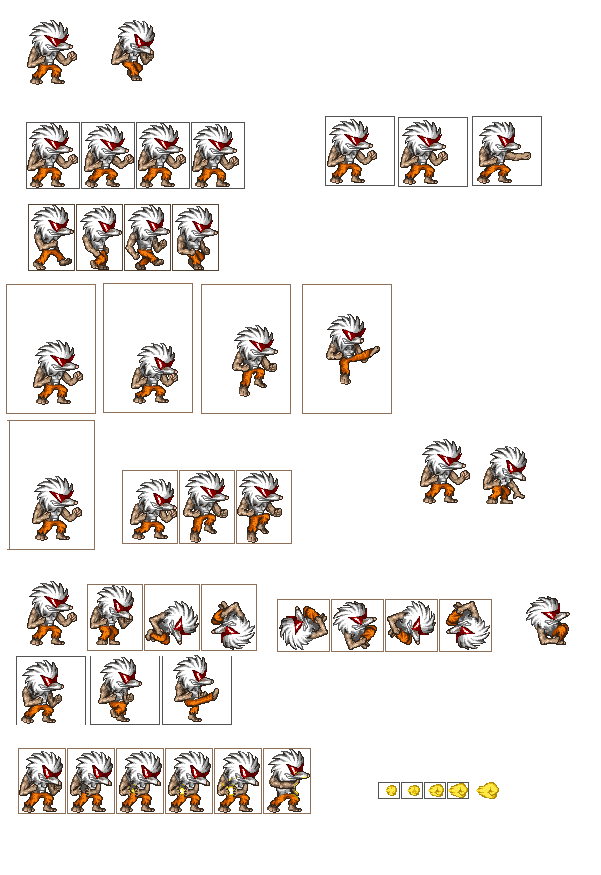
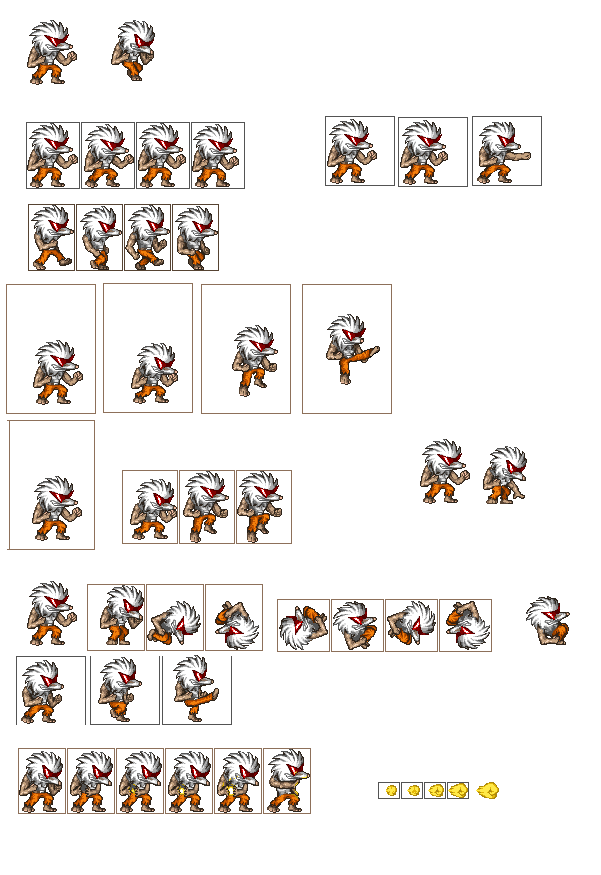
Added the rest of the possum loads, fixed a small thing in frames.

Changed region(s): [[0.1498, 0.648, 0.4493, 0.7406]]

diff --git a/hexoshi.py b/hexoshi.py
@@ -6816,7 +6816,18 @@ awesomepossum_stand_sprite = sge.gfx.Sprite.from_tileset(
     fps=10)
 awesomepossum_walk_sprite = sge.gfx.Sprite.from_tileset(
     fname, 29, 205, 4, xsep=3, width=45, height=65, origin_x=22, origin_y=64)
-    
+awesomepossum_roll_start_sprite = sge.gfx.Sprite.from_tileset(
+    fname, 88, 585, 3, xsep=3, width=56, height=65, origin_x=29, origin_y=59)
+awesomepossum_roll_sprite = sge.gfx.Sprite.from_tileset(
+    fname, 278, 600, 4, xsep=3, width=51, height=51, origin_x=26, origin_y=45)
+awesomepossum_shoot_sprite = sge.gfx.Sprite.from_tileset(
+    fname, 19, 749, 6, xsep=3, width=46, height=64, origin_x=20, origin_y=62,
+    fps=10)
+awesomepossum_bullet_start_sprite = sge.gfx.Sprite.from_tileset(
+    fname, 379, 783, 4, xsep=3, width=20, height=15, origin_x=12, origin_y=8,
+    fps=10)
+awesomepossum_bullet_sprite = sge.gfx.Sprite.from_tileset(
+    fname, 478, 783, 1, width=23, height=17, origin_x=14, origin_y=9)
 
 d = os.path.join(DATA, "images", "objects", "doors")
 door_barrier_x_sprite = sge.gfx.Sprite("barrier_x", d, origin_y=-8, fps=30,
